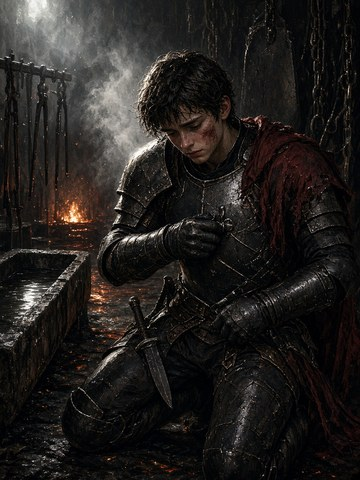
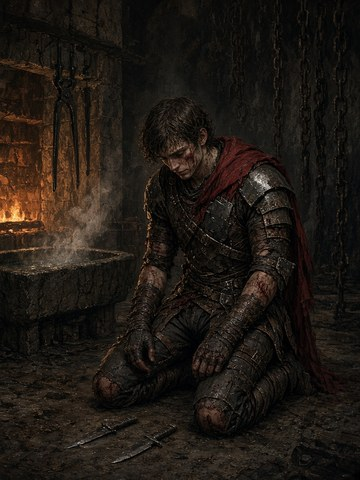
COL-MAR-004 Custodes Initiate armor more RUIN (grimy unfinished syphas)

diff --git a/index.html b/index.html
@@ -267,7 +267,7 @@ body {
   </div>
 </div>
 
-<script src="cards-abbadon.js?v=custodes-forge"></script>
+<script src="cards-abbadon.js?v=custodes-ruin"></script>
 <script>
 (function () {
   const grid = document.getElementById('grid');
@@ -287,7 +287,7 @@ body {
     if (id === 'COL-LED-008') return 'thumbs/r5/COL-LED-008.jpg?v=adult';
     if (id === 'COL-LED-009') return 'thumbs/r10/COL-LED-009.jpg?v=fleshlock';
     if (id === 'COL-MAR-008') return 'thumbs/r14/COL-MAR-008.jpg?v=syphas-black';
-    if (id === 'COL-MAR-004') return 'thumbs/r15/COL-MAR-004.jpg?v=custodes-forge';
+    if (id === 'COL-MAR-004') return 'thumbs/r15/COL-MAR-004.jpg?v=custodes-ruin';
     return 'thumbs/' + id + '.jpg?v=kaius-clean-2';
   }
 
